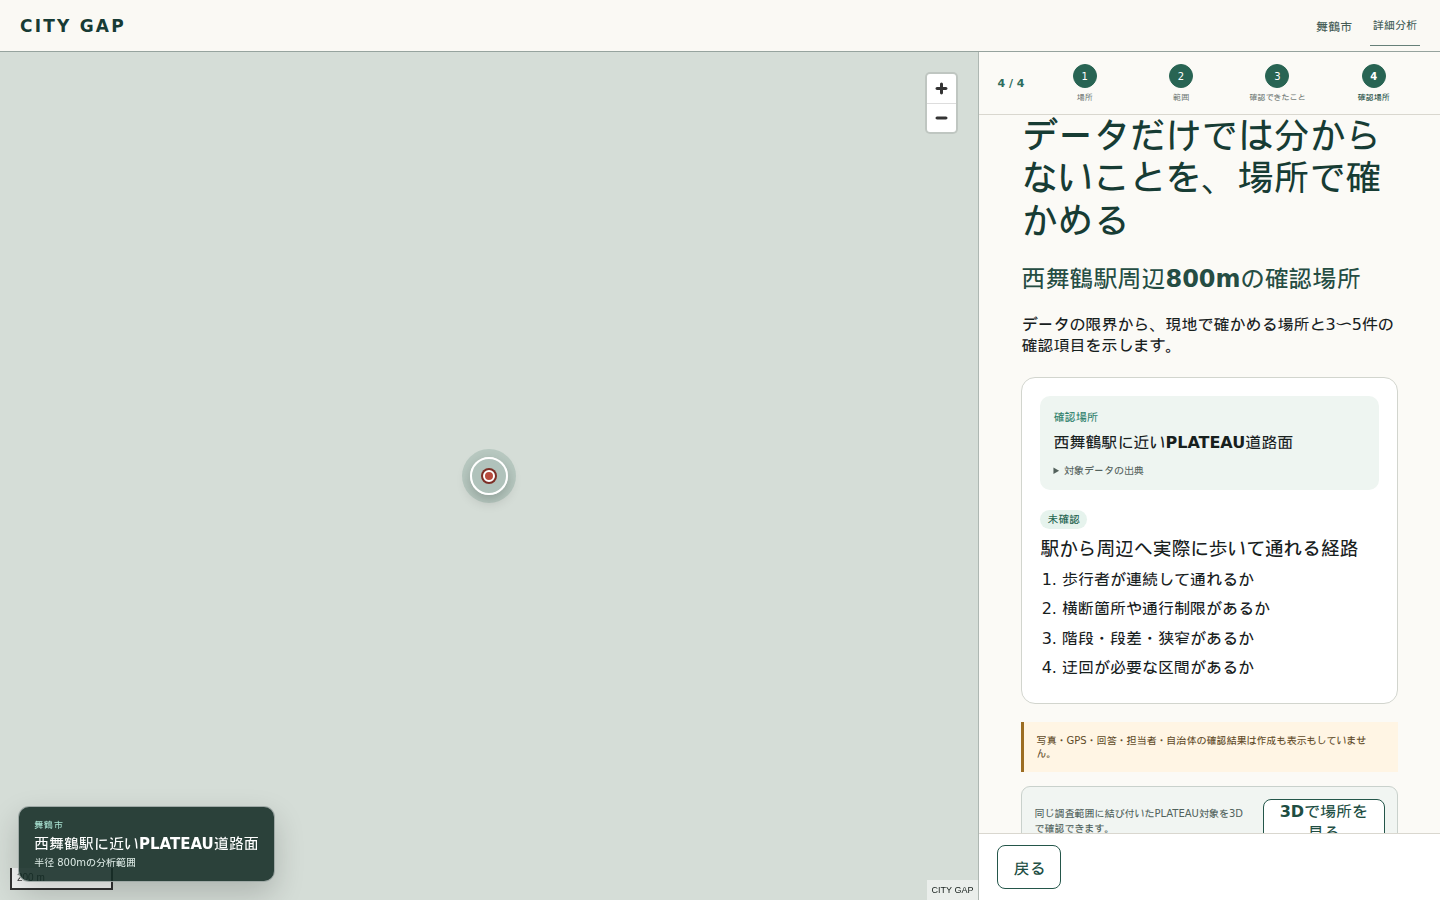
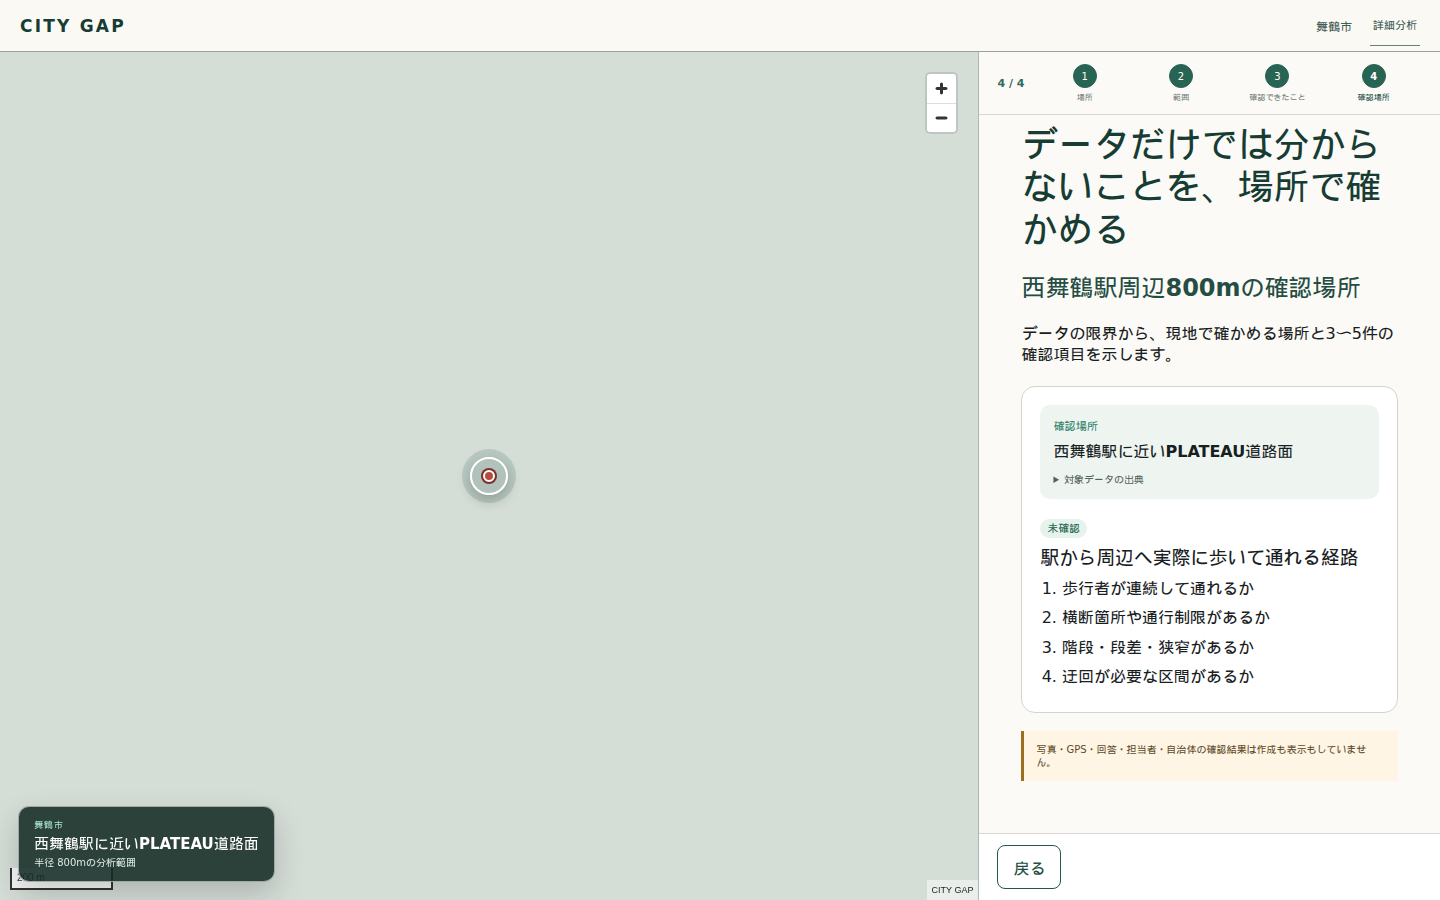
test: record simplified Unknown and UX-value 3D checkpoint

diff --git a/docs/public-first-run-ux-checkpoint.md b/docs/public-first-run-ux-checkpoint.md
@@ -2,7 +2,7 @@
 
 Goal: `public-first-run-ux-v1`
 
-Evidence build commit: `54d0781ab0f98b7f46bd4c57204f1032dd3a558c`
+Evidence source HEAD: `9c0764b4ddb7eb26b51d1f204cd8c68722933c66`
 
 Machine-readable evidence: [manifest](assets/public-first-run-ux/manifest.json)
 
@@ -33,7 +33,7 @@ After evidence:
 - [Place / radius desktop](assets/public-first-run-ux/02-place-radius-desktop.png)
 - [Known / Unknown desktop](assets/public-first-run-ux/03-known-unknown-desktop.png)
 - [Target / task desktop](assets/public-first-run-ux/04-target-task-desktop.png)
-- [Contextual 3D enabled](assets/public-first-run-ux/05-contextual-3d-enabled.png)
+- [Contextual 3D withheld by UX-value gate](assets/public-first-run-ux/05-contextual-3d-withheld.png)
 - [Landing mobile](assets/public-first-run-ux/06-landing-mobile.png)
 - [Place / radius mobile](assets/public-first-run-ux/07-place-radius-mobile.png)
 - [Known / Unknown mobile](assets/public-first-run-ux/08-known-unknown-mobile.png)
@@ -122,18 +122,16 @@ The first summary is five groups, not a 20-card dashboard:
 4. 都市計画
 5. 交通
 
-Each metric retains its source and limitation disclosure. Secondary datasets are not deleted and remain behind details when present.
+Each metric retains its source and limitation in the single bottom disclosure. Secondary datasets are not deleted and remain behind details when present.
 
 ## 16. Unknown presentation
 
-Known and Unknown remain in one continuous scroll panel. Public Unknown is limited to three items. Each selectable card contains:
+Known and Unknown remain in one continuous scroll panel. Public Unknown is limited to three items. Each selectable first-view card contains only:
 
-- `未確認`
-- the unknown in plain Japanese
-- why it matters
-- the source limitation
+- what is still unknown in plain Japanese
+- why it should be checked
 
-The fourth contract item remains in data but is not promoted into the first view.
+The cards contain no repeated status badge, dataset, version, source limitation, coverage, rule, model code, or object provenance. All three cards have zero source-detail elements in the automated audit. One collapsed `出典・データの注意点` disclosure holds metric provenance, coverage, limitations, Area version/hash, and target object provenance. The fourth contract item remains in data but is not promoted into the first view.
 
 ## 17. PLATEAU target presentation
 
@@ -148,23 +146,23 @@ The sampled West Maizuru 800m task contained four required checks. Internal sour
 
 ## 18. Contextual 3D behavior
 
-Automated positive case:
+The technical checks remain necessary but are no longer sufficient. U4 recorded zero displayed cases, which is an accepted UX outcome for the current real Public targets.
 
-- resolved PLATEAU road target
-- matching Area data
-- matching PLATEAU source/version
-- verified content hash
-- WebGL available
-- `3Dで場所を見る` displayed
+Not displayed — resolved road target:
 
-Automated negative case:
+- technical eligibility: true
+- UX value: false
+- reason code: `single_road_point_2d_sufficient`
+- reason: this is one road point, and opening 3D adds no decision information beyond the clearer 2D marker
 
-- arbitrary map-point mesh fallback
-- no resolved PLATEAU object
-- 3D control absent
+Not displayed — map-point mesh fallback:
+
+- technical eligibility: false
+- UX value: false
+- reason code: `not_plateau_object`
 - 2D target presentation retained
 
-3D is never the default.
+A future `3Dで周辺を見る` control may appear only when a real target also demonstrates useful building/road, terrain/height, multi-building, or otherwise ambiguous spatial relationships. PLATEAU presence alone cannot display it, and 3D is never the default.
 
 ## 19–20. Desktop and mobile results
 
@@ -204,10 +202,10 @@ The two terminal Tab-cycle entries that returned focus to `body` are recorded in
 ## 22–23. Clicks and performance
 
 - Landing → target: 5 clicks.
-- Cold-navigation FMR samples: 1,823 / 1,216 / 2,534 / 1,953 / 1,190 ms.
-- Median FMR: 1,823 ms.
+- Cold-navigation FMR samples: 4,885 / 1,489 / 1,858 / 1,474 / 1,801 ms.
+- Median FMR: 1,801 ms.
 - Target: median ≤3,000 ms.
-- Public Vite production build: 39.51 seconds for the final evidence build.
+- Public Vite production build: 45.97 seconds for the committed revised evidence build.
 
 ## 24. Local tests
 
@@ -219,7 +217,7 @@ Passed locally:
 - frontend typecheck
 - frontend Vitest: 89 passed
 - frontend production build
-- documentation link audit: all 73 documents resolved before adding this checkpoint; rerun is required after final docs
+- documentation link audit: all 75 documents resolved
 - npm security audit: 0 vulnerabilities
 - PLATEAU-native browser audit: passed
 - visual-identity audit: passed, no console errors or local HTTP failures
@@ -253,7 +251,7 @@ No participant response was created or inferred.
 - First-time users may understand Known/Unknown but not see a place for the verification result in an actual municipal meeting, GIS, or form.
 - Area Summary content is only partially confirmed; the exact urban-planning restrictions still require municipal clarification.
 - The target map depends on external background tiles. A deterministic center marker prevents target loss, but background detail may still arrive late.
-- Contextual 3D can add explanation cost even when technically eligible.
+- No current real Public target passes the UX-value 3D gate; a future positive case must prove that 3D adds spatial understanding without adding first-run explanation cost.
 - Some users may interpret a radius as a travel-time area despite the progressive methodology disclosure.
 - Public first-run comprehension may pass while the Unknown-to-task workflow still overlaps with existing Field Maps, Survey123, or paper practice.
 - The core differentiation is only provisional until real participants and a separate municipal workflow review evaluate the traceable reason chain.

diff --git a/docs/current-goal.md b/docs/current-goal.md
@@ -2,7 +2,7 @@
 
 Active goal: `public-first-run-ux-v1`
 
-Current milestone: U3 refinement complete / U4 revalidation in progress
+Current milestone: U4 Automated UX Validation Checkpoint complete
 
 Gate: `HOLD_MAIN_PROMOTION / HOLD_P1_M4_M6`
 
@@ -10,7 +10,7 @@ Checkpoint state:
 
 - execution branch: `feat/public-first-run-ux-v1`
 - source branch: `feat/area-known-unknown-a5`
-- Public UX evidence build: `54d0781ab0f98b7f46bd4c57204f1032dd3a558c`
+- Public UX revised evidence source: `9c0764b4ddb7eb26b51d1f204cd8c68722933c66`
 - product checkpoint: `d829defc54dc9417d3045d2c2ecfb9f19558e08a`
 - evidence checkpoint: `f3ae74e`
 - browser-gate checkpoint: `9dce42a`
